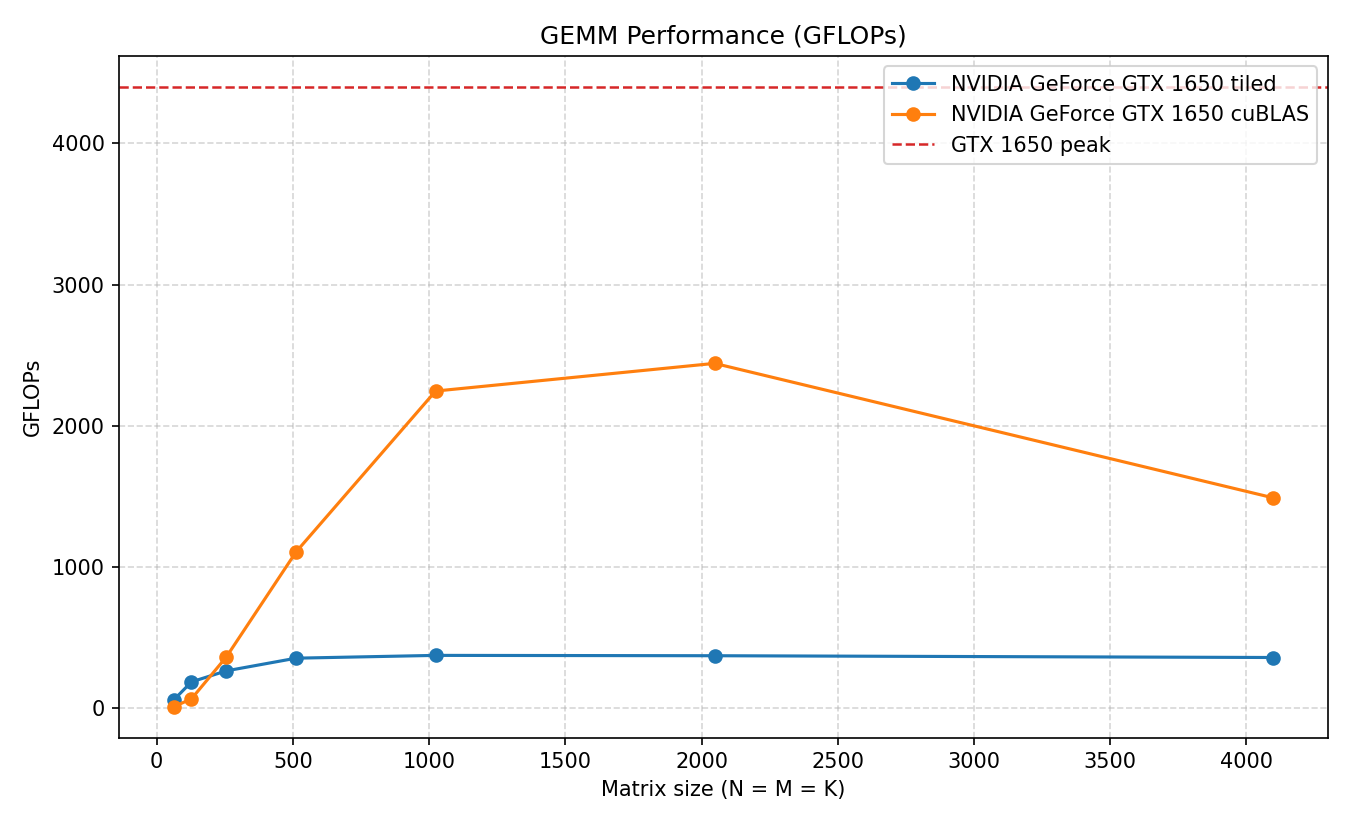
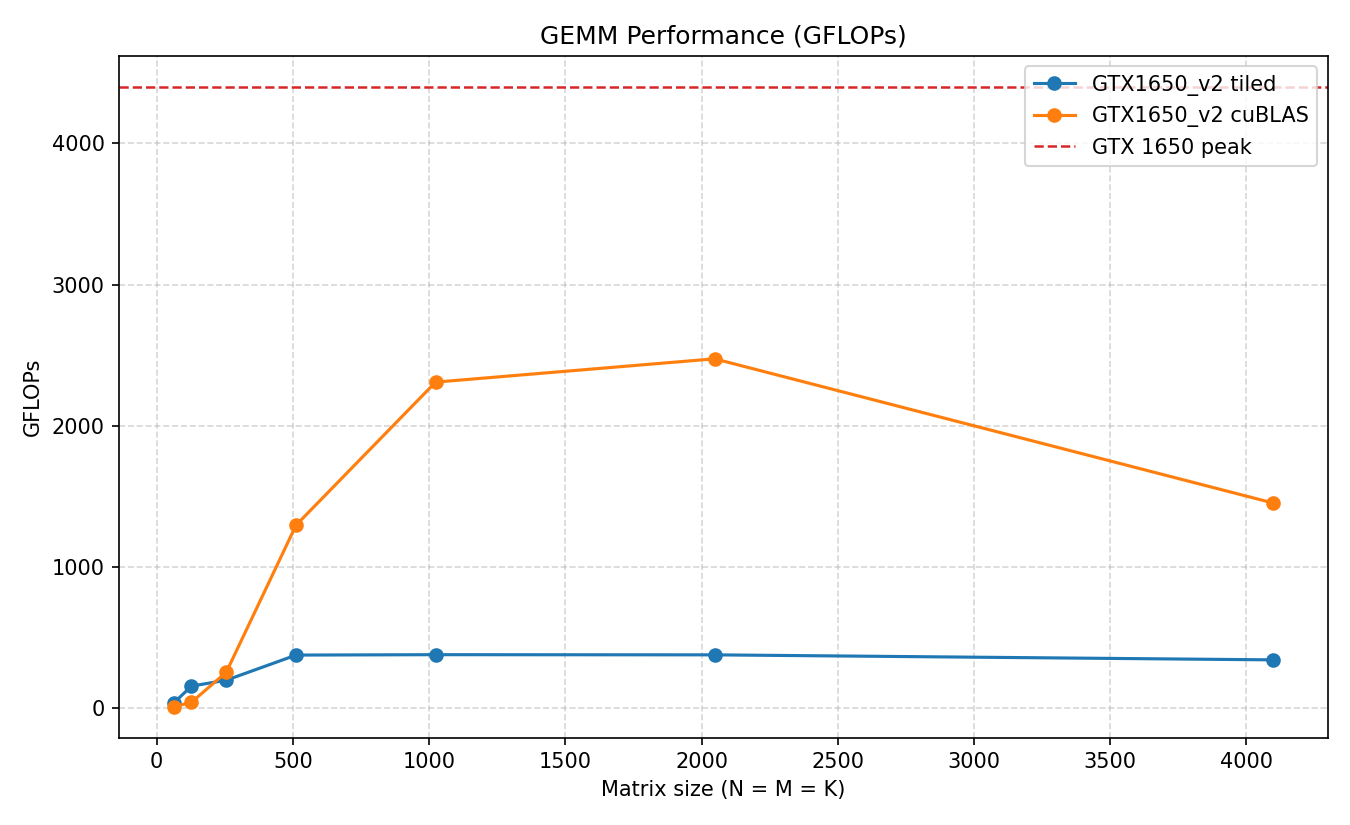
Refactor kernel benchmark and plotting scripts; add new JSON results for GTX1650_v2

diff --git a/python/plot_results.py b/python/plot_results.py
@@ -1,0 +1,157 @@
+from __future__ import annotations
+
+from pathlib import Path
+
+import matplotlib.pyplot as plt
+import pandas as pd
+
+
+def _ensure_output_path(output: str | Path) -> Path:
+	path = Path(output)
+	path.parent.mkdir(parents=True, exist_ok=True)
+	return path
+
+
+def plot_convergence(csv_path, output="plots/convergence.png"):
+	data = pd.read_csv(csv_path)
+
+	fig, ax_left = plt.subplots(figsize=(8, 5))
+	ax_right = ax_left.twinx()
+
+	ax_left.plot(data["epoch"], data["loss"], color="tab:blue", label="Loss")
+	ax_right.plot(data["epoch"], data["accuracy"], color="tab:orange", label="Accuracy")
+
+	ax_left.set_xlabel("Epoch")
+	ax_left.set_ylabel("Loss")
+	ax_right.set_ylabel("Accuracy")
+	ax_left.set_title("Training Convergence")
+
+	left_handles, left_labels = ax_left.get_legend_handles_labels()
+	right_handles, right_labels = ax_right.get_legend_handles_labels()
+	ax_left.legend(left_handles + right_handles, left_labels + right_labels, loc="best")
+
+	fig.tight_layout()
+	fig.savefig(_ensure_output_path(output))
+	plt.close(fig)
+
+
+def plot_scaling_efficiency(results_dict, output="plots/scaling.png"):
+	workers = sorted(results_dict)
+	times = [results_dict[worker]["time_per_epoch"] for worker in workers]
+
+	baseline_workers = 1 if 1 in results_dict else workers[0]
+	baseline_time = results_dict[baseline_workers]["time_per_epoch"]
+	ideal_times = [baseline_time * baseline_workers / worker for worker in workers]
+
+	actual_speedup = [baseline_time / time for time in times]
+	ideal_speedup = [worker / baseline_workers for worker in workers]
+	efficiency = [100.0 * actual / ideal for actual, ideal in zip(actual_speedup, ideal_speedup)]
+
+	fig, ax_left = plt.subplots(figsize=(8, 5))
+	ax_left.bar(workers, times, color="tab:blue", alpha=0.7, label="Actual time/epoch")
+	ax_left.plot(workers, ideal_times, color="tab:orange", marker="o", label="Ideal linear time")
+
+	ax_left.set_xlabel("Workers")
+	ax_left.set_ylabel("Time per epoch (s)")
+	ax_left.set_title("Scaling Efficiency")
+	ax_left.set_xticks(workers)
+
+	ax_right = ax_left.twinx()
+	ax_right.plot(
+		workers,
+		efficiency,
+		color="tab:green",
+		marker="s",
+		linestyle="--",
+		label="Parallel efficiency (%)",
+	)
+	ax_right.set_ylabel("Parallel efficiency (%)")
+
+	left_handles, left_labels = ax_left.get_legend_handles_labels()
+	right_handles, right_labels = ax_right.get_legend_handles_labels()
+	ax_left.legend(left_handles + right_handles, left_labels + right_labels, loc="best")
+
+	fig.tight_layout()
+	fig.savefig(_ensure_output_path(output))
+	plt.close(fig)
+
+
+def plot_communication_breakdown(results_dict, output="plots/comm_breakdown.png"):
+	workers = sorted(results_dict)
+	compute = [results_dict[worker]["compute_ms"] for worker in workers]
+	sync = [results_dict[worker]["sync_ms"] for worker in workers]
+
+	fig, ax = plt.subplots(figsize=(8, 5))
+	ax.bar(workers, compute, color="tab:blue", label="Compute")
+	ax.bar(workers, sync, bottom=compute, color="tab:orange", label="Communication")
+
+	ax.set_xlabel("Workers")
+	ax.set_ylabel("Time per epoch (ms)")
+	ax.set_title("Communication Breakdown")
+	ax.set_xticks(workers)
+	ax.legend(loc="best")
+
+	fig.tight_layout()
+	fig.savefig(_ensure_output_path(output))
+	plt.close(fig)
+
+
+def plot_accuracy_parity(parallelnet_csv, pytorch_csv, output="plots/parity.png"):
+	parallelnet = pd.read_csv(parallelnet_csv)
+	pytorch = pd.read_csv(pytorch_csv)
+
+	fig, ax = plt.subplots(figsize=(8, 5))
+	ax.plot(parallelnet["epoch"], parallelnet["loss"], label="ParallelNet loss")
+	ax.plot(pytorch["epoch"], pytorch["loss"], label="PyTorch loss")
+
+	ax.set_xlabel("Epoch")
+	ax.set_ylabel("Loss")
+	ax.set_title("Loss Parity")
+	ax.legend(loc="best")
+
+	fig.tight_layout()
+	fig.savefig(_ensure_output_path(output))
+	plt.close(fig)
+
+
+if __name__ == "__main__":
+	mock_dir = Path("plots/mock_data")
+	mock_dir.mkdir(parents=True, exist_ok=True)
+
+	epochs = list(range(1, 11))
+	loss = [1.2 / epoch + 0.05 for epoch in epochs]
+	accuracy = [min(0.45 + 0.05 * epoch, 0.98) for epoch in epochs]
+
+	parallelnet_df = pd.DataFrame({"epoch": epochs, "loss": loss, "accuracy": accuracy})
+	parallelnet_csv = mock_dir / "parallelnet.csv"
+	parallelnet_df.to_csv(parallelnet_csv, index=False)
+
+	pytorch_df = pd.DataFrame(
+		{
+			"epoch": epochs,
+			"loss": [value * 1.05 for value in loss],
+			"accuracy": [max(value - 0.02, 0.0) for value in accuracy],
+		}
+	)
+	pytorch_csv = mock_dir / "pytorch.csv"
+	pytorch_df.to_csv(pytorch_csv, index=False)
+
+	plot_convergence(parallelnet_csv, output="plots/convergence.png")
+
+	scaling_results = {
+		1: {"time_per_epoch": 10.0, "final_acc": 0.82},
+		2: {"time_per_epoch": 5.8, "final_acc": 0.83},
+		4: {"time_per_epoch": 3.3, "final_acc": 0.84},
+		8: {"time_per_epoch": 2.2, "final_acc": 0.84},
+	}
+	plot_scaling_efficiency(scaling_results, output="plots/scaling.png")
+
+	comm_results = {
+		1: {"compute_ms": 120.0, "sync_ms": 5.0},
+		2: {"compute_ms": 70.0, "sync_ms": 12.0},
+		4: {"compute_ms": 45.0, "sync_ms": 20.0},
+		8: {"compute_ms": 32.0, "sync_ms": 36.0},
+	}
+	plot_communication_breakdown(comm_results, output="plots/comm_breakdown.png")
+
+	plot_accuracy_parity(parallelnet_csv, pytorch_csv, output="plots/parity.png")

diff --git a/tests/test_kernels.py b/tests/test_kernels.py
@@ -13,11 +13,13 @@ cp = pytest.importorskip("cupy")
 
 
 def _load_activation_module() -> "cp.RawModule":
-	source_path = Path(__file__).resolve().parents[1] / "kernels" / "activations.cu"
+	repo_root = Path(__file__).resolve().parents[1]
+	kernels_dir = repo_root / "kernels"
+	source_path = kernels_dir / "activations.cu"
 	source = source_path.read_text(encoding="utf-8")
 	return cp.RawModule(
 		code=source,
-		options=("--std=c++17",),
+		options=("--std=c++17", f"-I{kernels_dir}"),
 		name_expressions=(
 			"relu_forward",
 			"relu_backward",
@@ -143,13 +145,37 @@ def test_sgd_update(sgd_module):
 	block = (256, 1, 1)
 	grid = (math.ceil(n / block[0]), 1, 1)
 	kernel = sgd_module.get_function("sgd_update")
+	weights_gpu = cp.asarray(weights)
+	gradients_gpu = cp.asarray(gradients)
 
-	for _ in range(2):
-		weights_gpu = cp.asarray(weights)
-		gradients_gpu = cp.asarray(gradients)
-		kernel(grid, block, (weights_gpu, gradients_gpu, learning_rate, np.int32(n)))
-		cp.cuda.runtime.deviceSynchronize()
+	kernel(grid, block, (weights_gpu, gradients_gpu, learning_rate, np.int32(n)))
+	cp.cuda.runtime.deviceSynchronize()
 
-		result = cp.asnumpy(weights_gpu)
-		ref = np.full(n, 0.999, dtype=np.float32)
-		assert np.allclose(result, ref, rtol=1e-6, atol=1e-6)
+	result = cp.asnumpy(weights_gpu)
+	ref = np.full(n, 0.999, dtype=np.float32)
+	assert np.allclose(result, ref, rtol=1e-6, atol=1e-6)
+
+	kernel(grid, block, (weights_gpu, gradients_gpu, learning_rate, np.int32(n)))
+	cp.cuda.runtime.deviceSynchronize()
+
+	result = cp.asnumpy(weights_gpu)
+	ref = np.full(n, 0.998, dtype=np.float32)
+	assert np.allclose(result, ref, rtol=1e-6, atol=1e-6)
+
+	large_n = 100_000
+	weights_large = np.full(large_n, 2.0, dtype=np.float32)
+	gradients_large = np.full(large_n, 0.5, dtype=np.float32)
+	weights_large_gpu = cp.asarray(weights_large)
+	gradients_large_gpu = cp.asarray(gradients_large)
+	large_grid = (math.ceil(large_n / block[0]), 1, 1)
+
+	kernel(
+		large_grid,
+		block,
+		(weights_large_gpu, gradients_large_gpu, learning_rate, np.int32(large_n)),
+	)
+	cp.cuda.runtime.deviceSynchronize()
+
+	result = cp.asnumpy(weights_large_gpu)
+	ref = np.full(large_n, 1.995, dtype=np.float32)
+	assert np.allclose(result, ref, rtol=1e-6, atol=1e-6)

diff --git a/benchmarks/kernel_bench.py b/benchmarks/kernel_bench.py
@@ -1,15 +1,8 @@
-import argparse
-import json
-import math
-import os
-import sys
-import subprocess
-from pathlib import Path
-
-import cupy as cp
-import matplotlib.pyplot as plt
-import numpy as np
 def configure_windows_cuda_dlls():
+	import os
+	import sys
+	from pathlib import Path
+
 	if sys.platform != "win32":
 		return
 
@@ -43,6 +36,21 @@ def configure_windows_cuda_dlls():
 			os.add_dll_directory(str(default_cuda))
 		except (FileNotFoundError, OSError):
 			pass
+
+
+configure_windows_cuda_dlls()
+
+import argparse
+import json
+import math
+import os
+import sys
+import subprocess
+from pathlib import Path
+
+import cupy as cp
+import matplotlib.pyplot as plt
+import numpy as np
 
 def load_matmul_module():
 	repo_root = Path(__file__).resolve().parents[1]